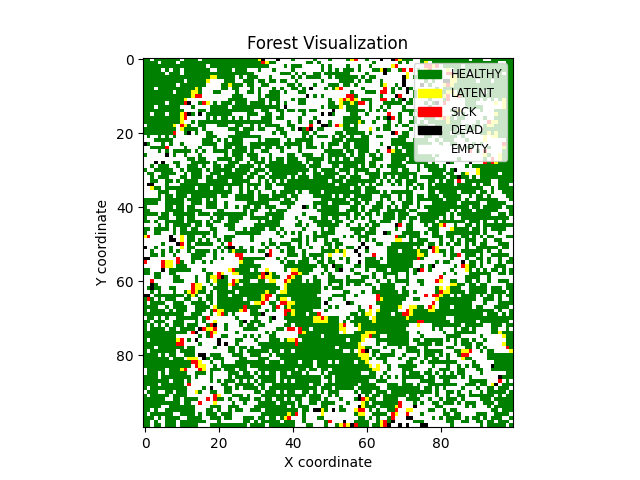
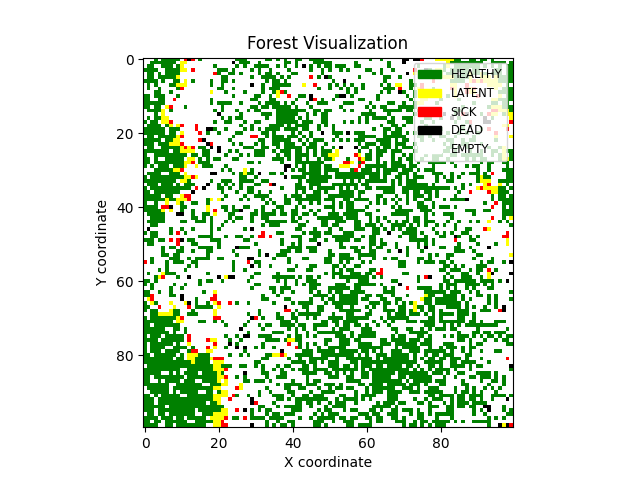
add new graphs, change code

Changed region(s): [[0.2188, 0.125, 0.8125, 0.9062]]

diff --git a/test/cutting_down_test.py b/test/cutting_down_test.py
@@ -30,10 +30,11 @@ def test_forest_model():
     epochs = 500
     forest_size = 100
     num_infected = 5
-    forest_cover_rate = 0.99
+    forest_cover_rate = 0.95
     # low: 0.06 medium: 0.14 high: 0.35
-    infect_prob_sick = 0.06
+    infect_prob_sick = 0.35
     # low: 0.04 medium: 0.08 high: 0.2
+    infect_prob_latent = 0.3
     grow_tree_prob = 0.01
     unsucceceful_vaccination = 0.1
     latent_days_immune_threshold = 15
@@ -45,23 +46,28 @@ def test_forest_model():
     # 2. Initialize the disease
     forest, forest_state_manager = initialize_disease(forest, num_infected, forest_state_manager)
     visualize_forest(forest)
-
+    a = 1.5
+    b = 2
+    c = 1
+    d = 1
+    e = 0.7
+    vaxinate_cost = 0
+    dead_trees = 0
+    sum_cuted_down = 0
+    immune_treees_healthy = 0
+    disease_eliminated_days = 0
+    trees_cut_down = 0
     # 3. Choose prevention method
-    prevention_method = "cut_down_perimiter"
-    # prevention_method = "vaxinate" #--------WIP
-    #prevention_method = "cut_down_dead"----TODO
-    # prevention_method = "none"
+    trees_cut_down = 0
 
     # 4. Propagate the disease
     for i in range(epochs):
         forest, forest_state_manager = propagate_disease(forest, forest_state_manager, infect_prob_sick, infect_prob_latent)
         forest_state_manager,dead_trees = forest_update(forest_state_manager, iter_num, grow_tree_prob,dead_trees,False)
 
-        match prevention_method:
-          case "cut_down_perimiter":
-             forest, forest_state_manager = prevention_menthod_perimiter(forest,forest_state_manager)
-          case "vaxinate":
-             forest, forest_state_manager = prevention_menthod_vaxinate(forest,forest_state_manager,unsucceceful_vaccination,latent_days_immune_threshold)
+        trees_cut_down = 0
+        forest, forest_state_manager,trees_cut_down = prevention_menthod_perimiter(forest,forest_state_manager)
+        sum_cuted_down+=trees_cut_down
 
         state_counts["HEALTHY"].append(len([tree for row in forest for tree in row if tree.is_healthy()]))
         state_counts["LATENT"].append(len([tree for row in forest for tree in row if tree.is_latent()]))
@@ -70,17 +76,30 @@ def test_forest_model():
         state_counts["EMPTY"].append(len([tree for row in forest for tree in row if tree.is_empty()]))
         state_counts["IMMUNE_LATENT"].append(len([tree for row in forest for tree in row if tree.state == "IMMUNE_LATENT"]))
         state_counts["IMMUNE_HEALTHY"].append(len([tree for row in forest for tree in row if tree.state == "IMMUNE_HEALTHY"]))
+        if len(forest_state_manager.sick_trees) == 0 and len(forest_state_manager.latent_trees) == 0:
+           
+           break
 
-        # for cluster in find_disease_clusters(forest):
-        #   print(cluster["middle_point"])
         if iter_num % N_skip == 0:
           visualize_forest(forest)
         iter_num += 1
 
     ## Final Step in one iteration
-    forest_state_manager ,dead_trees= forest_update(forest_state_manager, iter_num, grow_tree_prob,dead_trees,True)
-    plot_state_counts(state_counts, epochs)
 
+
+    disease_eliminated_days = iter_num
+    print("After ", iter_num, "days, the forest disease is eliminated!")
+    print("Vaxinate cost is: ", vaxinate_cost)
+    print("Dead trees is: ", dead_trees)
+    print("Number of immuned healthy trees is: ", immune_treees_healthy)
+    print("Disease eliminated days is: ", disease_eliminated_days)
+    print("Sum of cut down trees: ", sum_cuted_down)
+    loss_value = loss_function(a, b, c, d, e, vaxinate_cost, dead_trees, sum_cuted_down, immune_treees_healthy, disease_eliminated_days)
+    print("Loss value is: ", loss_value)
+    current_epoch = i
+    ## Final Step in one iteration
+    forest_state_manager ,dead_trees= forest_update(forest_state_manager, iter_num, grow_tree_prob,dead_trees,True)
+    plot_state_counts(state_counts, current_epoch + 1)
 
 
 # Run the test

diff --git a/src/cutting_down.py b/src/cutting_down.py
@@ -12,25 +12,30 @@ from src.forest_model import  *
 def cut_down_perimiter(forest,forest_state_manager, cluster_size,cluster_middle_point, radius):
     # Calculate the center of the diseased cluster
     Ni, Nj = forest.shape
+    trees_cut_down = 0
     # Iterate through all cells in the forest
     for i in range(Ni):
         for j in range(Nj):
+            
             # Calculate the distance from the current cell to the center of the cluster
             distance = np.sqrt((i - cluster_middle_point[0]) ** 2 + (j - cluster_middle_point[1]) ** 2)
 
             # cut down
             if radius - 0.5 <= distance <= radius + 0.5 :
-                forest_state_manager.update_state(forest[i,j], "EMPTY")
-    return forest,forest_state_manager
+                if not forest[i,j].is_empty():
+                    trees_cut_down += 1
+                    forest_state_manager.update_state(forest[i,j], "EMPTY")
+    return forest,forest_state_manager,trees_cut_down
 
 def prevention_menthod_perimiter(forest,forest_state_manager):
   clusters = find_disease_clusters(forest)
+  trees_cut_down = 0
   for cluster in clusters:
     size = cluster["size"]
     if size < 10:
       continue
-    forest,forest_state_manager = cut_down_perimiter(forest,forest_state_manager, size,cluster["middle_point"],np.sqrt(size)+1)
-  return forest,forest_state_manager
+    forest,forest_state_manager,trees_cut_down = cut_down_perimiter(forest,forest_state_manager, size,cluster["middle_point"],np.sqrt(size)+1)
+  return forest,forest_state_manager,trees_cut_down
 
 def cut_down_sick_clusters(forest,forest_state_manager,min_size=4):
     """

diff --git a/test/cutting_down_only_sick.py b/test/cutting_down_only_sick.py
@@ -25,16 +25,16 @@ def test_forest_model():
         "IMMUNE_HEALTHY": []
     }
     forest_state_manager = ForestStateManager(7,10,15)
-    N_skip = 1
+    N_skip = 20
     iter_num = 1
     epochs = 500
     forest_size = 100
     num_infected = 10
     forest_cover_rate = 0.95
     # low: 0.06 medium: 0.14 high: 0.35
-    infect_prob_sick = 0.35
+    infect_prob_sick = 0.06  
     # low: 0.04 medium: 0.08 high: 0.2
-    infect_prob_latent = 0.2
+    infect_prob_latent = 0.04
     grow_tree_prob = 0.01
     unsucceceful_vaccination = 0.20
     latent_days_immune_threshold = 5
@@ -42,7 +42,7 @@ def test_forest_model():
 
     a = 1.5
     b = 2
-    c = 0
+    c = 1
     d = 1
     e = 0.7
     vaxinate_cost = 0
@@ -92,6 +92,7 @@ def test_forest_model():
     print("Dead trees is: ", dead_trees)
     print("Number of immuned healthy trees is: ", immune_treees_healthy)
     print("Disease eliminated days is: ", disease_eliminated_days)
+    print("Sum of cut down trees: ", sum_cuted_down)
     loss_value = loss_function(a, b, c, d, e, vaxinate_cost, dead_trees, sum_cuted_down, immune_treees_healthy, disease_eliminated_days)
     print("Loss value is: ", loss_value)
     current_epoch = i
